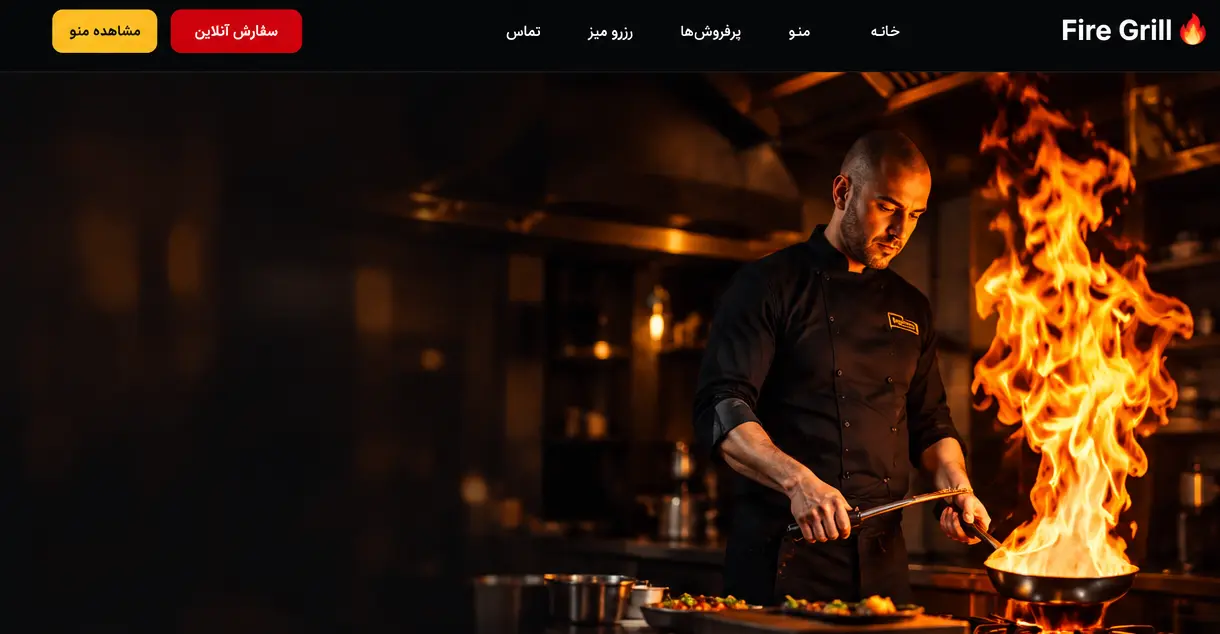
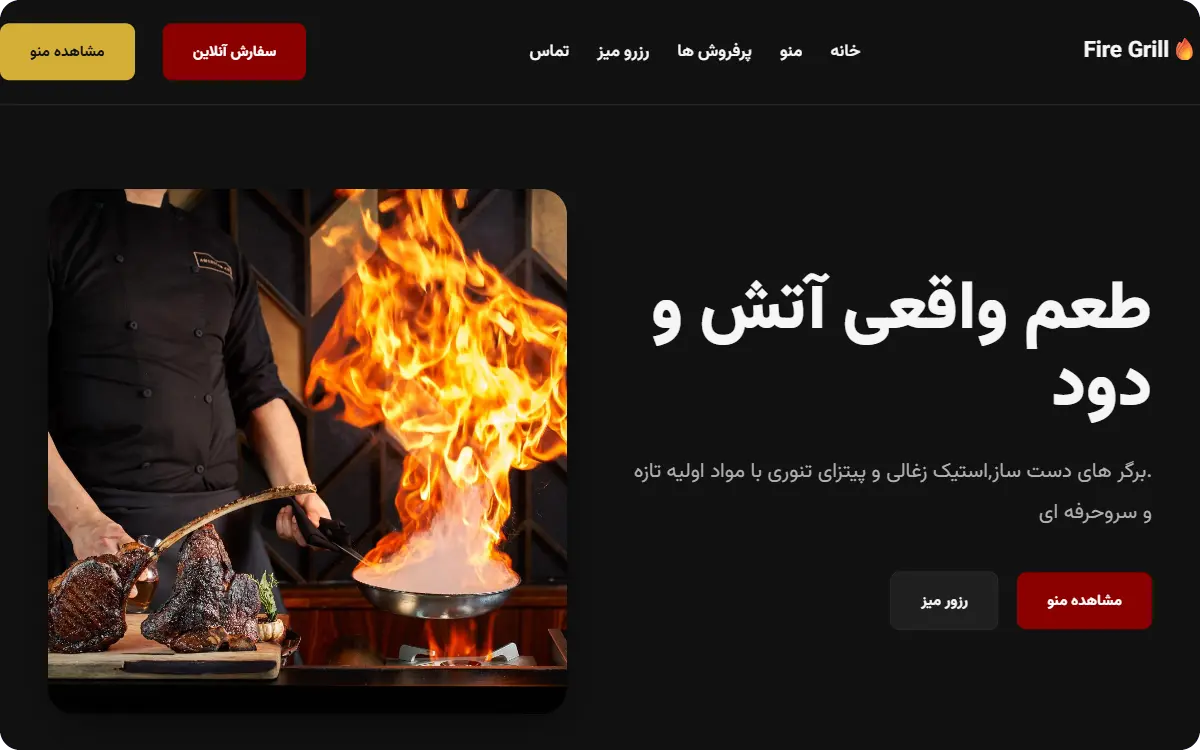
Day f

diff --git a/index.html b/index.html
@@ -236,7 +236,7 @@
         <div class="portfolio-image-wrapper">
 
           <img
-            src="dental.webp"
+            src="clink.webp"
             alt="پیشنمایش وبسایت کلینیک دندانپزشکی White Smile"
             loading="lazy"
           />
